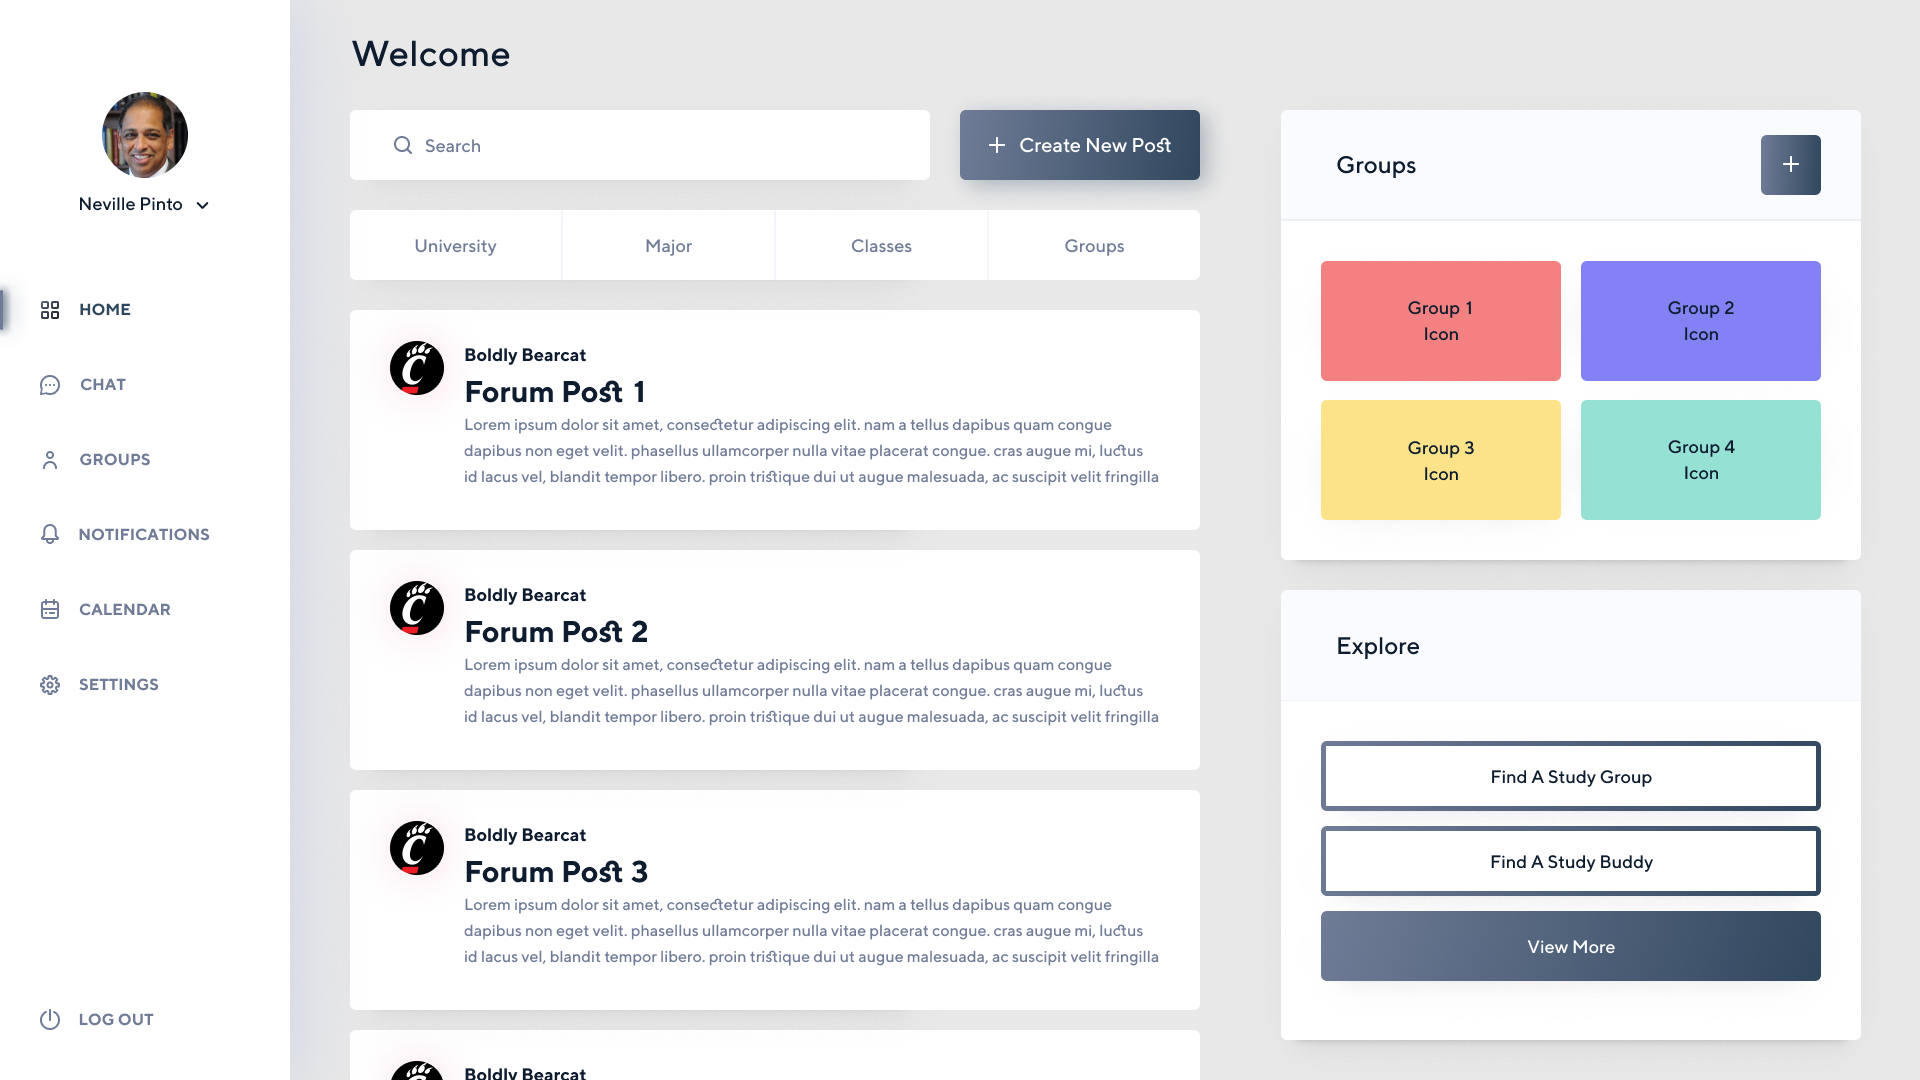
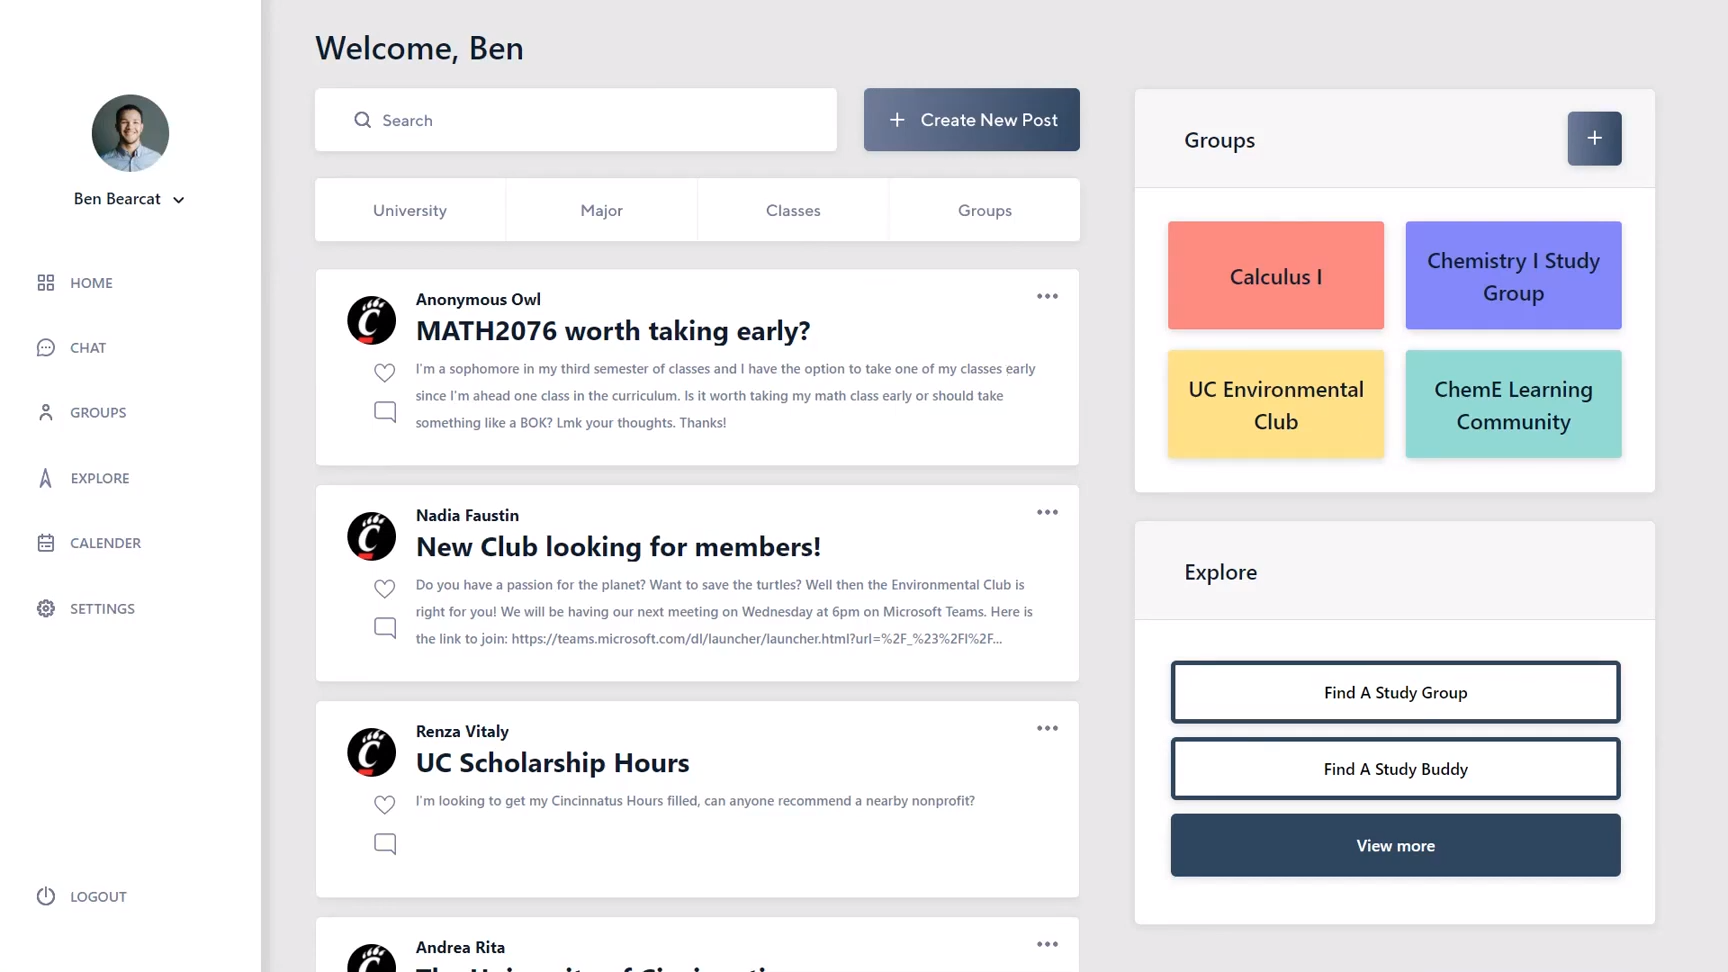
Add user design spec and update docs for new name

diff --git a/User-docs.md b/User-docs.md
@@ -10,7 +10,7 @@ Features:
 - Messaging
 
 ## Getting Started
-What is Cincy Study?
+What is Bearcat Circle?
 
 Bearcat Circle is a Web application that aims to simulate the in-person learning experience and aid with remote 
 learning. The application combines existing communication software all into one easy-to-use package. Students can post 
@@ -35,12 +35,12 @@ You will have to declare your major and expected graduation date.
 This is optional but you will have to state classes that you're currently taking in the semester in order for better recommendation of related channels of your interest.
 ![Sign Up 3](Resources/img/Sign-up-2.png "Sign Up 3")
 
-Cincy Study offers you some possible channels of your choice of classes that you might be interested and you are good to go with your new account.
+Bearcat Circle offers you some possible channels of your choice of classes that you might be interested and you are good to go with your new account.
 ![Sign Up 4](Resources/img/Sign-up-4.png "Sign Up 4")
 
 ## Create new chat
 ![Chat Page](Resources/img/Chat-Page.png "Chat Page")
-The Chat Page will allow you to reach out and communicate directly to another person signed up through Cincy Study. To start a chat with someone, all you have to do is hit the "Create New Chat" button and type the name of someone you would like to communicate with. Then type your message and hit send! Once you have sent/received some messages, you will be able to select different chats from different people by just clicking on the chat itself.
+The Chat Page will allow you to reach out and communicate directly to another person signed up through Bearcat Circle. To start a chat with someone, all you have to do is hit the "Create New Chat" button and type the name of someone you would like to communicate with. Then type your message and hit send! Once you have sent/received some messages, you will be able to select different chats from different people by just clicking on the chat itself.
 
 
 ## Create new group
@@ -60,8 +60,8 @@ Nope, your able to be a part of as many groups as you like! You can even create 
 Again nope, create as many as you want!
 
 ### What if I do not have a UC account yet?
-You will have to wait until your UC account is created before signing up for Cincy Study.
+You will have to wait until your UC account is created before signing up for Bearcat Circle.
 
-### Is there an APP for Cincy Study?
-Currently there is no APP for Cincy Study.
+### Is there an APP for Bearcat Circle?
+Currently, there is no App for Bearcat Circle.
 

diff --git a/README.md b/README.md
@@ -1,6 +1,6 @@
 # Bearcat Circle
 
-[Project Repository Link](https://github.com/S1mS1ngh/bearcat-circle)
+[Code Repository Link](https://github.com/S1mS1ngh/bearcat-circle)
 
 #### Team members
 * Nathan Berning - Computer Science (berninnt@mail.uc.edu)
@@ -26,8 +26,15 @@ etc. The platform will feature a homepage which will have all the core component
 main page. Each classroom/feature will have its own respective page for the best user experience. With all of these 
 pages and features we hope to create a positive learning community for students from anywhere in the world.
 
-#### User Interface Specification (Todo)
+#### User Interface Specification
+![Homepage Navigation](Resources/img/Homepage_navigation.png "Homepage Navigation")
 
+
+The App is dividing into 4 main pages: Home, Chat, Groups, and Explore. These pages lead to more specific pages in the 
+app and will be shown in the user flow.
+
+
+![User Flow Diagram](Resources/img/user_flow.png "User Flow")
 #### Test Plan and Results (Todo)
 
 #### User Manual (Todo - update userdocs)
